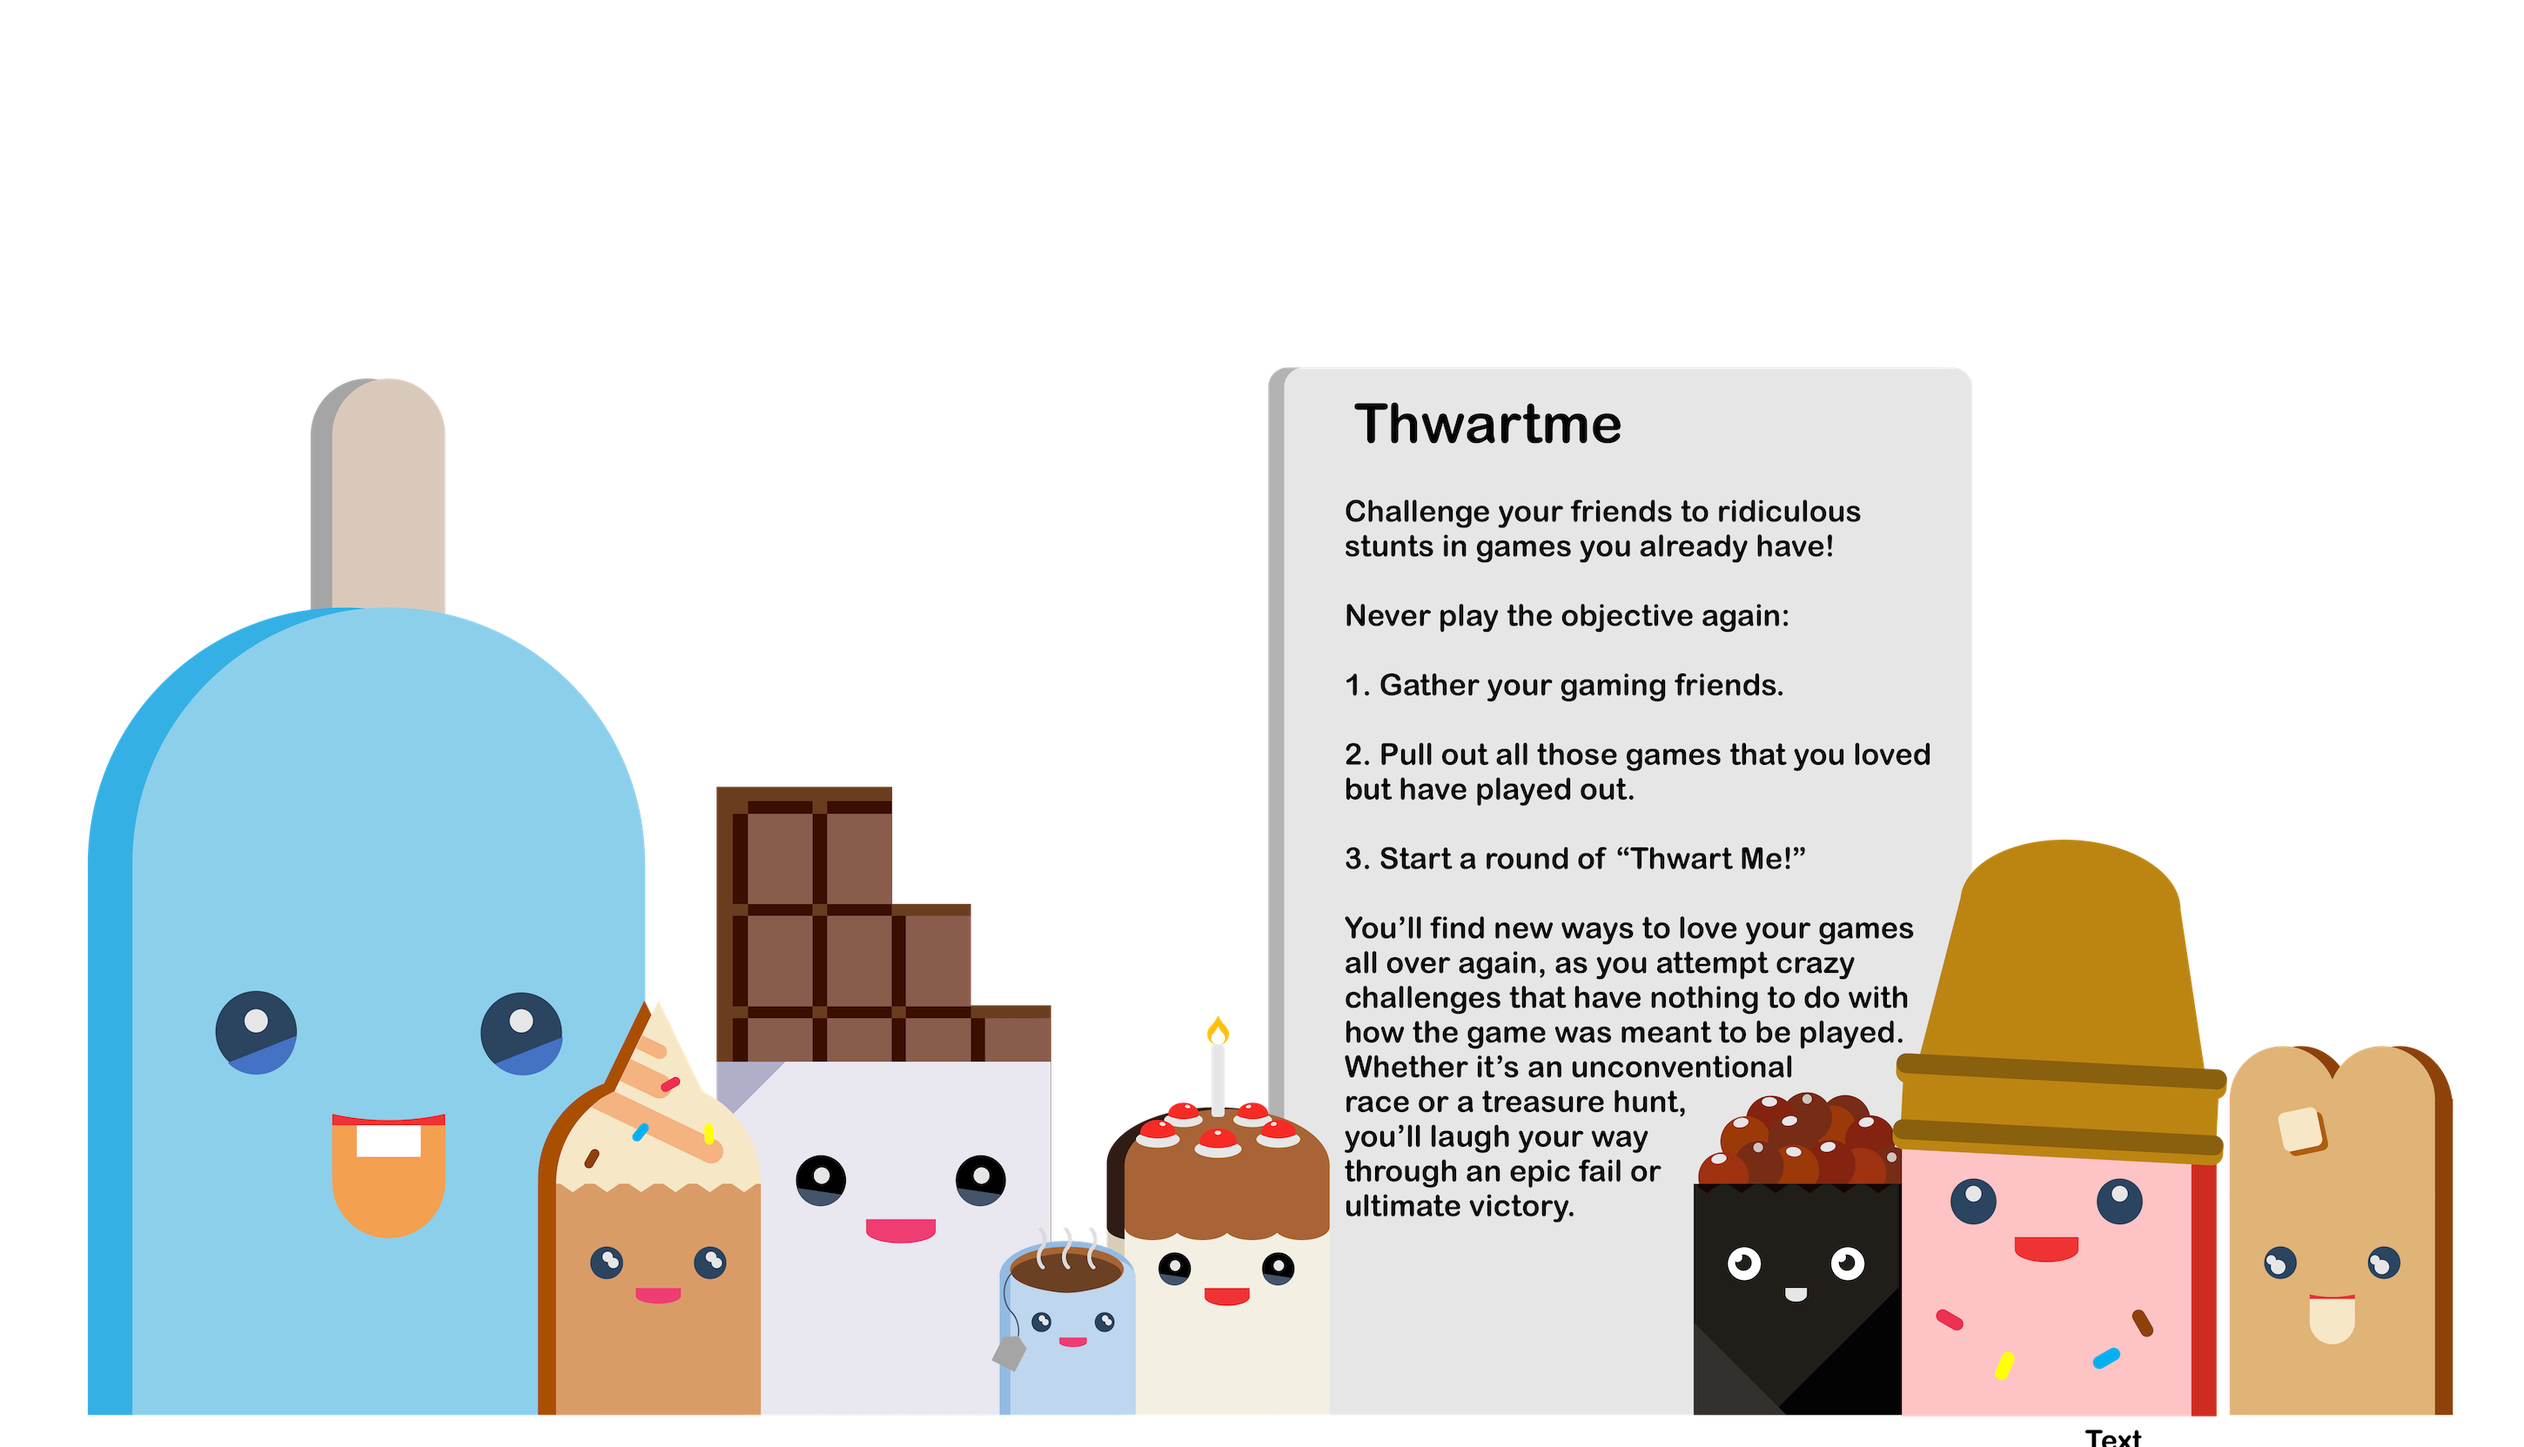
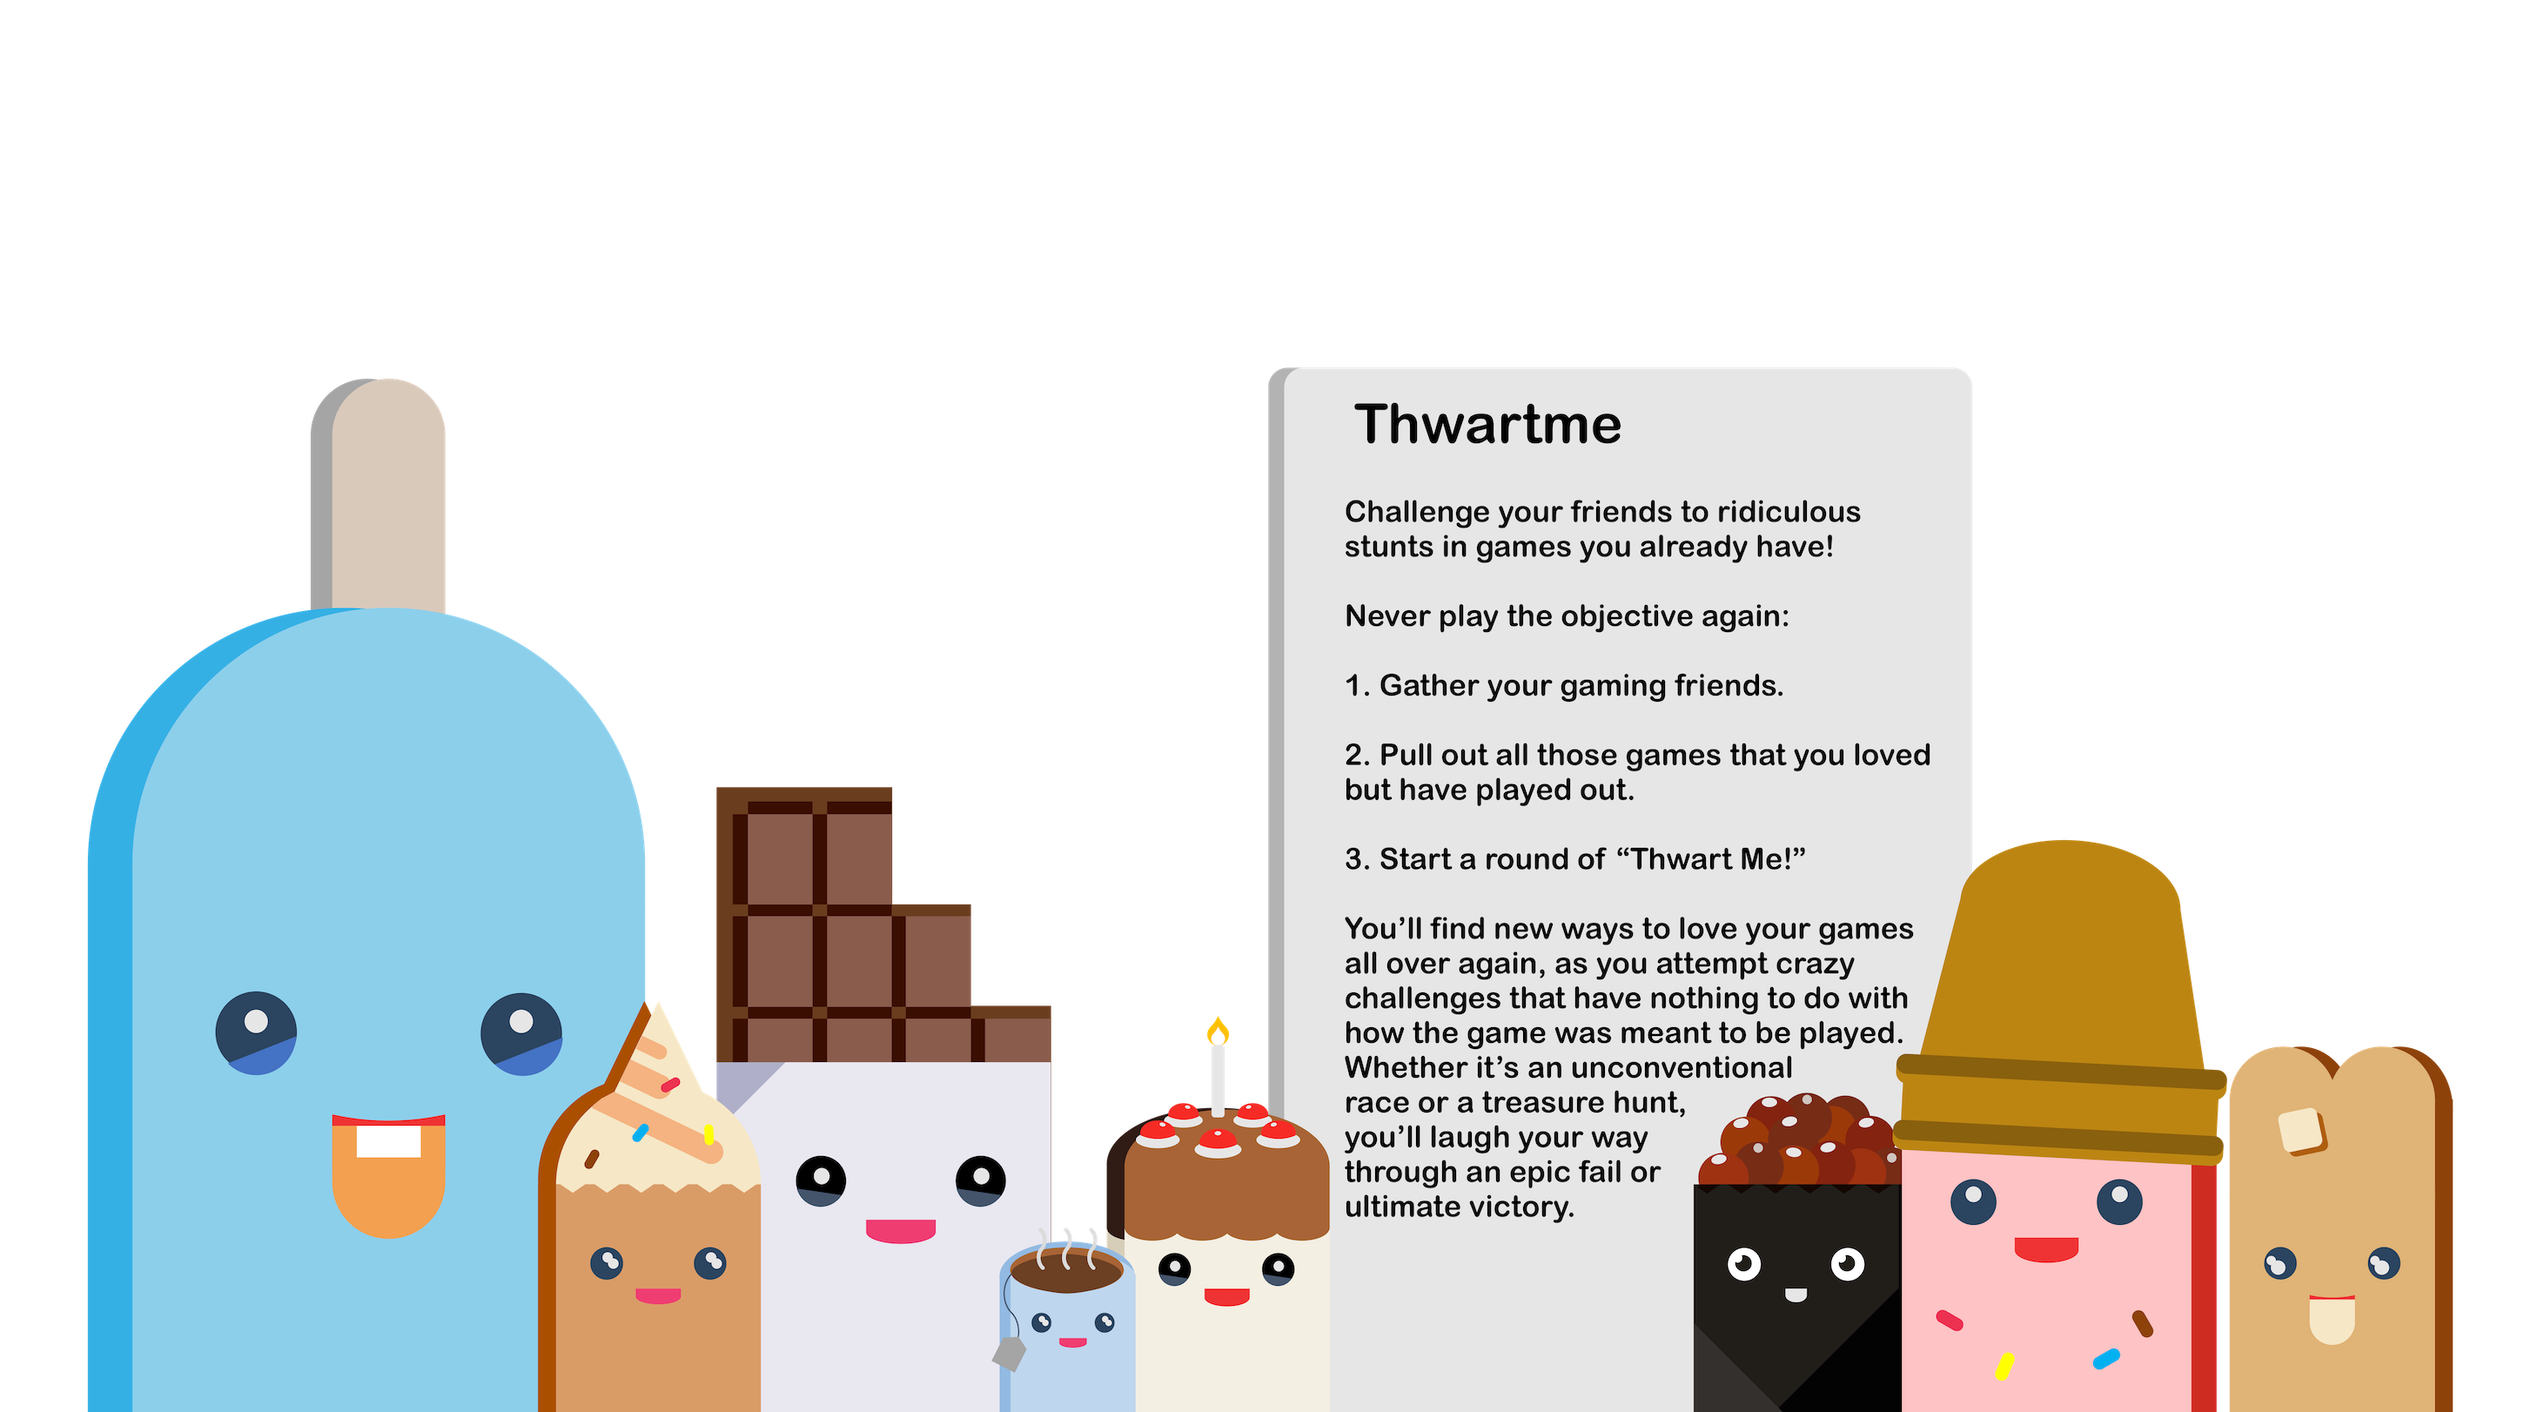
fixed landingpage bubble location

diff --git a/assets/styles/landingpage.css b/assets/styles/landingpage.css
@@ -52,7 +52,7 @@
   }
 
   
-  @media only screen and (min-width: 1201px) {
+  @media only screen and (min-width: 901px) {
 
     #landingpage-phone {
       display: none;
@@ -77,34 +77,6 @@
       width: 1300px;
     }
     
-    #landingpage-text {
-      z-index: 2;
-      font-size: 1.1rem;
-      width: 23rem;
-      height: fit-content;
-      margin-left: 700px;
-      margin-top: -9rem;
-      margin-bottom: 6rem;
-      position: absolute;
-    }
-    
-    #thwartme-header {
-      font-size: 2.6rem;
-      font-weight: bolder;
-      margin-bottom: 1.5rem;
-    }
-    
-    .landingpage-header {
-      font-size: 1.2rem;
-      font-weight: bolder;
-      margin-bottom: 1.1rem;
-      line-height: 120%;
-    }
-  
-    #landingpage-text > div {
-      margin-top: .5rem;
-    }
-    
     #landingpage-text > button {
       margin-top: 20px;
       margin-left: 50px;
@@ -115,18 +87,13 @@
       cursor: pointer;
     }
     
-    #landingpage-text li:not(:last-child) {
-      margin-bottom: .75rem;
-      line-height: 120%;
-    }
-    
     #signup {
     z-index: 2;
     font-size: 1.1rem;
     width: 22rem;
     height: fit-content;
     margin-left: 300px;
-    margin-top: -5rem;
+    margin-top: 9rem;
     position: absolute;
   }
   
@@ -182,34 +149,6 @@
       width: 1400px;
     }
     
-    #landingpage-text {
-      z-index: 2;
-      font-size: 1.1rem;
-      width: 23rem;
-      height: fit-content;
-      margin-left: 750px;
-      margin-top: -12rem;
-      margin-bottom: 9rem;
-      position: absolute;
-    }
-    
-    #thwartme-header {
-      font-size: 2.6rem;
-      font-weight: bolder;
-      margin-bottom: 1.5rem;
-    }
-    
-    .landingpage-header {
-      font-size: 1.2rem;
-      font-weight: bolder;
-      margin-bottom: 1.1rem;
-      line-height: 120%;
-    }
-  
-    #landingpage-text > div {
-      margin-top: .5rem;
-    }
-    
     #landingpage-text > button {
       margin-top: 20px;
       margin-left: 50px;
@@ -220,18 +159,13 @@
       cursor: pointer;
     }
     
-    #landingpage-text li:not(:last-child) {
-      margin-bottom: .75rem;
-      line-height: 120%;
-    }
-    
     #signup {
     z-index: 2;
     font-size: 1.1rem;
     width: 22rem;
     height: fit-content;
     margin-left: 300px;
-    margin-top: 0rem;
+    margin-top: 10rem;
     position: absolute;
   }
   
@@ -287,34 +221,6 @@
       width: 1500px;
     }
     
-    #landingpage-text {
-      z-index: 2;
-      font-size: 1.1rem;
-      width: 26rem;
-      height: fit-content;
-      margin-left: 800px;
-      margin-top: -14rem;
-      margin-bottom: 10rem;
-      position: absolute;
-    }
-    
-    #thwartme-header {
-      font-size: 3rem;
-      font-weight: bolder;
-      margin-bottom: 2rem;
-    }
-    
-    .landingpage-header {
-      font-size: 1.5rem;
-      font-weight: bolder;
-      margin-bottom: 1.1rem;
-      line-height: 120%;
-    }
-  
-    #landingpage-text > div {
-      margin-top: .5rem;
-    }
-    
     #landingpage-text > button {
       margin-top: 20px;
       margin-left: 50px;
@@ -325,18 +231,13 @@
       cursor: pointer;
     }
     
-    #landingpage-text li:not(:last-child) {
-      margin-bottom: .75rem;
-      line-height: 120%;
-    }
-    
     #signup {
     z-index: 2;
     font-size: 1.3rem;
     width: 27rem;
     height: fit-content;
     margin-left: 300px;
-    margin-top: -3rem;
+    margin-top: 10rem;
     position: absolute;
   }
   
@@ -392,34 +293,6 @@
       width: 1600px;
     }
     
-    #landingpage-text {
-      z-index: 2;
-      font-size: 1.1rem;
-      width: 26rem;
-      height: fit-content;
-      margin-left: 850px;
-      margin-top: -14rem;
-      margin-bottom: 10rem;
-      position: absolute;
-    }
-    
-    #thwartme-header {
-      font-size: 3.4rem;
-      font-weight: bolder;
-      margin-bottom: 2rem;
-    }
-    
-    .landingpage-header {
-      font-size: 1.8rem;
-      font-weight: bolder;
-      margin-bottom: 1.1rem;
-      line-height: 120%;
-    }
-  
-    #landingpage-text > div {
-      margin-top: .5rem;
-    }
-    
     #landingpage-text > button {
       margin-top: 20px;
       margin-left: 50px;
@@ -430,18 +303,13 @@
       cursor: pointer;
     }
     
-    #landingpage-text li:not(:last-child) {
-      margin-bottom: .75rem;
-      line-height: 120%;
-    }
-    
     #signup {
     z-index: 2;
     font-size: 1.3rem;
     width: 27rem;
     height: fit-content;
     margin-left: 350px;
-    margin-top: -5rem;
+    margin-top: 15rem;
     position: absolute;
   }
   
@@ -497,34 +365,6 @@
       width: 1920px;
     }
     
-    #landingpage-text {
-      z-index: 2;
-      font-size: 1.5rem;
-      width: 35rem;
-      height: fit-content;
-      margin-left: 1020px;
-      margin-top: -14rem;
-      margin-bottom: 15rem;
-      position: absolute;
-    }
-    
-    #thwartme-header {
-      font-size: 4rem;
-      font-weight: bolder;
-      margin-bottom: 2.2rem;
-    }
-    
-    .landingpage-header {
-      font-size: 1.9rem;
-      font-weight: bolder;
-      margin-bottom: 1.1rem;
-      line-height: 120%;
-    }
-  
-    #landingpage-text > div {
-      margin-top: .5rem;
-    }
-    
     #landingpage-text > button {
       margin-top: 20px;
       margin-left: 50px;
@@ -535,18 +375,13 @@
       cursor: pointer;
     }
     
-    #landingpage-text li:not(:last-child) {
-      margin-bottom: .75rem;
-      line-height: 120%;
-    }
-    
     #signup {
     z-index: 2;
     font-size: 1.3rem;
     width: 27rem;
     height: fit-content;
     margin-left: 400px;
-    margin-top: 0rem;
+    margin-top: 14rem;
     position: absolute;
   }
   
@@ -601,35 +436,7 @@
     #landingpage-image img {
       width: 2500px;
     }
-    
-    #landingpage-text {
-      z-index: 2;
-      font-size: 2.1rem;
-      width: 41rem;
-      height: fit-content;
-      margin-left: 1380px;
-      margin-top: -18rem;
-      margin-bottom: 15rem;
-      position: absolute;
-    }
-    
-    #thwartme-header {
-      font-size: 4.4rem;
-      font-weight: bolder;
-      margin-bottom: 2.8rem;
-    }
-    
-    .landingpage-header {
-      font-size: 2.5rem;
-      font-weight: bolder;
-      margin-bottom: 1.1rem;
-      line-height: 120%;
-    }
-  
-    #landingpage-text > div {
-      margin-top: .5rem;
-    }
-    
+     
     #landingpage-text > button {
       margin-top: 20px;
       margin-left: 50px;
@@ -640,18 +447,13 @@
       cursor: pointer;
     }
     
-    #landingpage-text li:not(:last-child) {
-      margin-bottom: .75rem;
-      line-height: 120%;
-    }
-    
     #signup {
     z-index: 2;
     font-size: 1.3rem;
     width: 27rem;
     height: fit-content;
     margin-left: 520px;
-    margin-top: 0rem;
+    margin-top: 20rem;
     position: absolute;
   }
   
